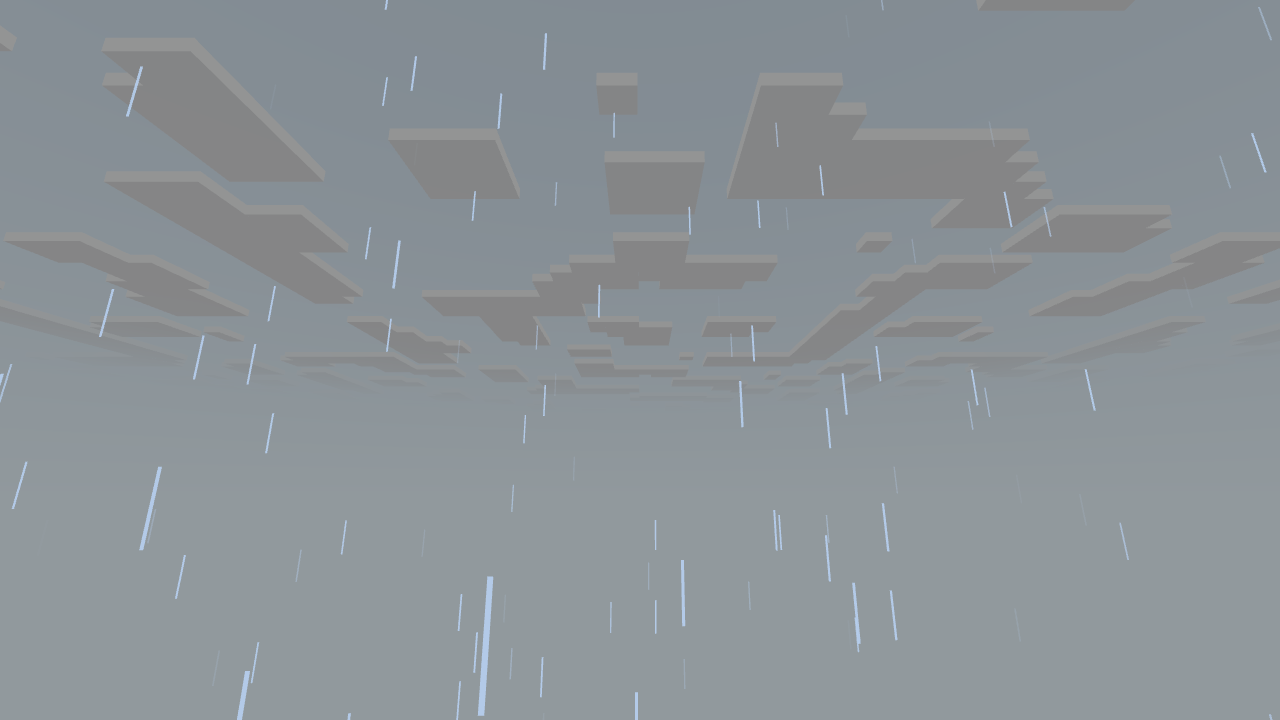
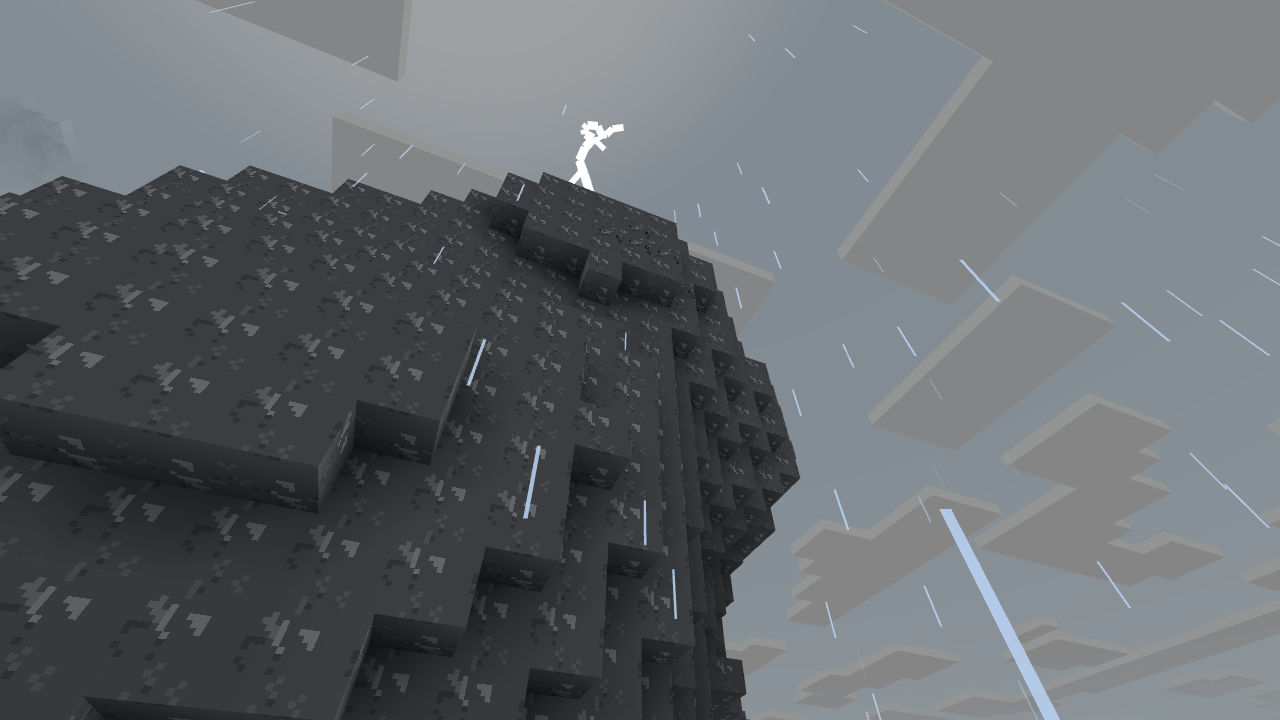
M12c: aim storm screenshot at the lightning strike with terrain in frame
Claude-Session: https://claude.ai/code/session_01JQ62XznmM2AD8JKHq9hFqh

diff --git a/tests/e2e/m12.spec.ts b/tests/e2e/m12.spec.ts
@@ -739,7 +739,14 @@ test('M12c weather, rain streaks animation, desert climate check, and thundersto
     api.setWeather!('thunder');
     api.setTimeOfDay!(6000);
     api.teleport!(pos[0] + 0.5, pos[1] + 1.6, pos[2] + 0.5);
-    api.look!(0, 0.25);
+    await api.waitForTerrain!(4);
+    // The first thunder step strikes with seed = the tick it runs on (6001), at the angle of the
+    // seeded generator's first value around the player; face that direction, slightly up.
+    const strikeSeed = 6001;
+    const firstValue = ((Math.imul(strikeSeed, 1664525) + 1013904223) >>> 0) / 4294967296;
+    // The bolt runs from cloud height down to terrain ~30 blocks away; tilt up so its upper part
+    // clears the nearer rock while terrain stays in the lower frame.
+    api.look!(firstValue * Math.PI * 2, 0.85);
     await api.tick!(1);
     await new Promise((r) => requestAnimationFrame(() => requestAnimationFrame(r)));
   });

diff --git a/progress/M12c.md b/progress/M12c.md
@@ -17,7 +17,7 @@ Full verify (this session): typecheck ✓ · lint ✓ · placeholders ✓ · uni
 
 ## Screenshots (docs/screenshots/M12c/)
 
-- m12-storm.png: Looking up at a uniformly grey-blue overcast sky with flat-bottomed blocky grey clouds and thin light-blue rain streaks falling across the frame. No lightning bolt is in view (the strike is 14-38 blocks away, outside the camera's view), and no terrain is visible.
+- m12-storm.png: Camera tilted up toward a rock summit under a grey overcast sky. A white jagged lightning bolt with a small fork strikes down onto the summit (only its lower part shows; the top is hidden by the grey blocky clouds, which fill the right half of the sky). Thin light-blue rain streaks fall across the whole frame, and one thick streak crosses the lower right because it is close to the camera. The stone cliff face fills the lower left.
 
 ## What was built
 
@@ -42,11 +42,12 @@ Full verify (this session): typecheck ✓ · lint ✓ · placeholders ✓ · uni
 - `WeatherManager.tick` now advances by game ticks elapsed (it used to run once per rendered frame); natural weather schedule after 12000 simulated ticks.
 - Freezing used `World.getHeight`, which skips water, so water never froze; now uses the true surface. Snow no longer lands on cross plants or fire.
 - Lightning flash additive reduced from 0.9 to 0.35 so a strike no longer whites out the sky (the old storm screenshot was a white sky).
+- Owner-approved edit to the M12c e2e screenshot step only (`tests/e2e/m12.spec.ts`): wait for terrain after the teleport and aim the camera at the strike. No assertion changed.
 - New `tests/unit/m12c-weather-sim.test.ts` (schedule, pause, strike, fire ignition, snow build-up, freezing, setBlock path).
 
 ## Known limitations
 
-- The storm screenshot shows no lightning bolt; bolt rendering has unit coverage for generation only, not a pixel test.
+- The storm screenshot aims the camera using the strike's known seed (6001) rather than reading the strike position, so it depends on the strike seed being the tick number; bolt rendering has unit coverage for generation only, not a pixel assertion.
 - Puddle darkening and splashes have no dedicated automated test; they are exercised only by the rain e2e run.
 - Known slow-container failure in this session: m02:54 mesh p95.
 
